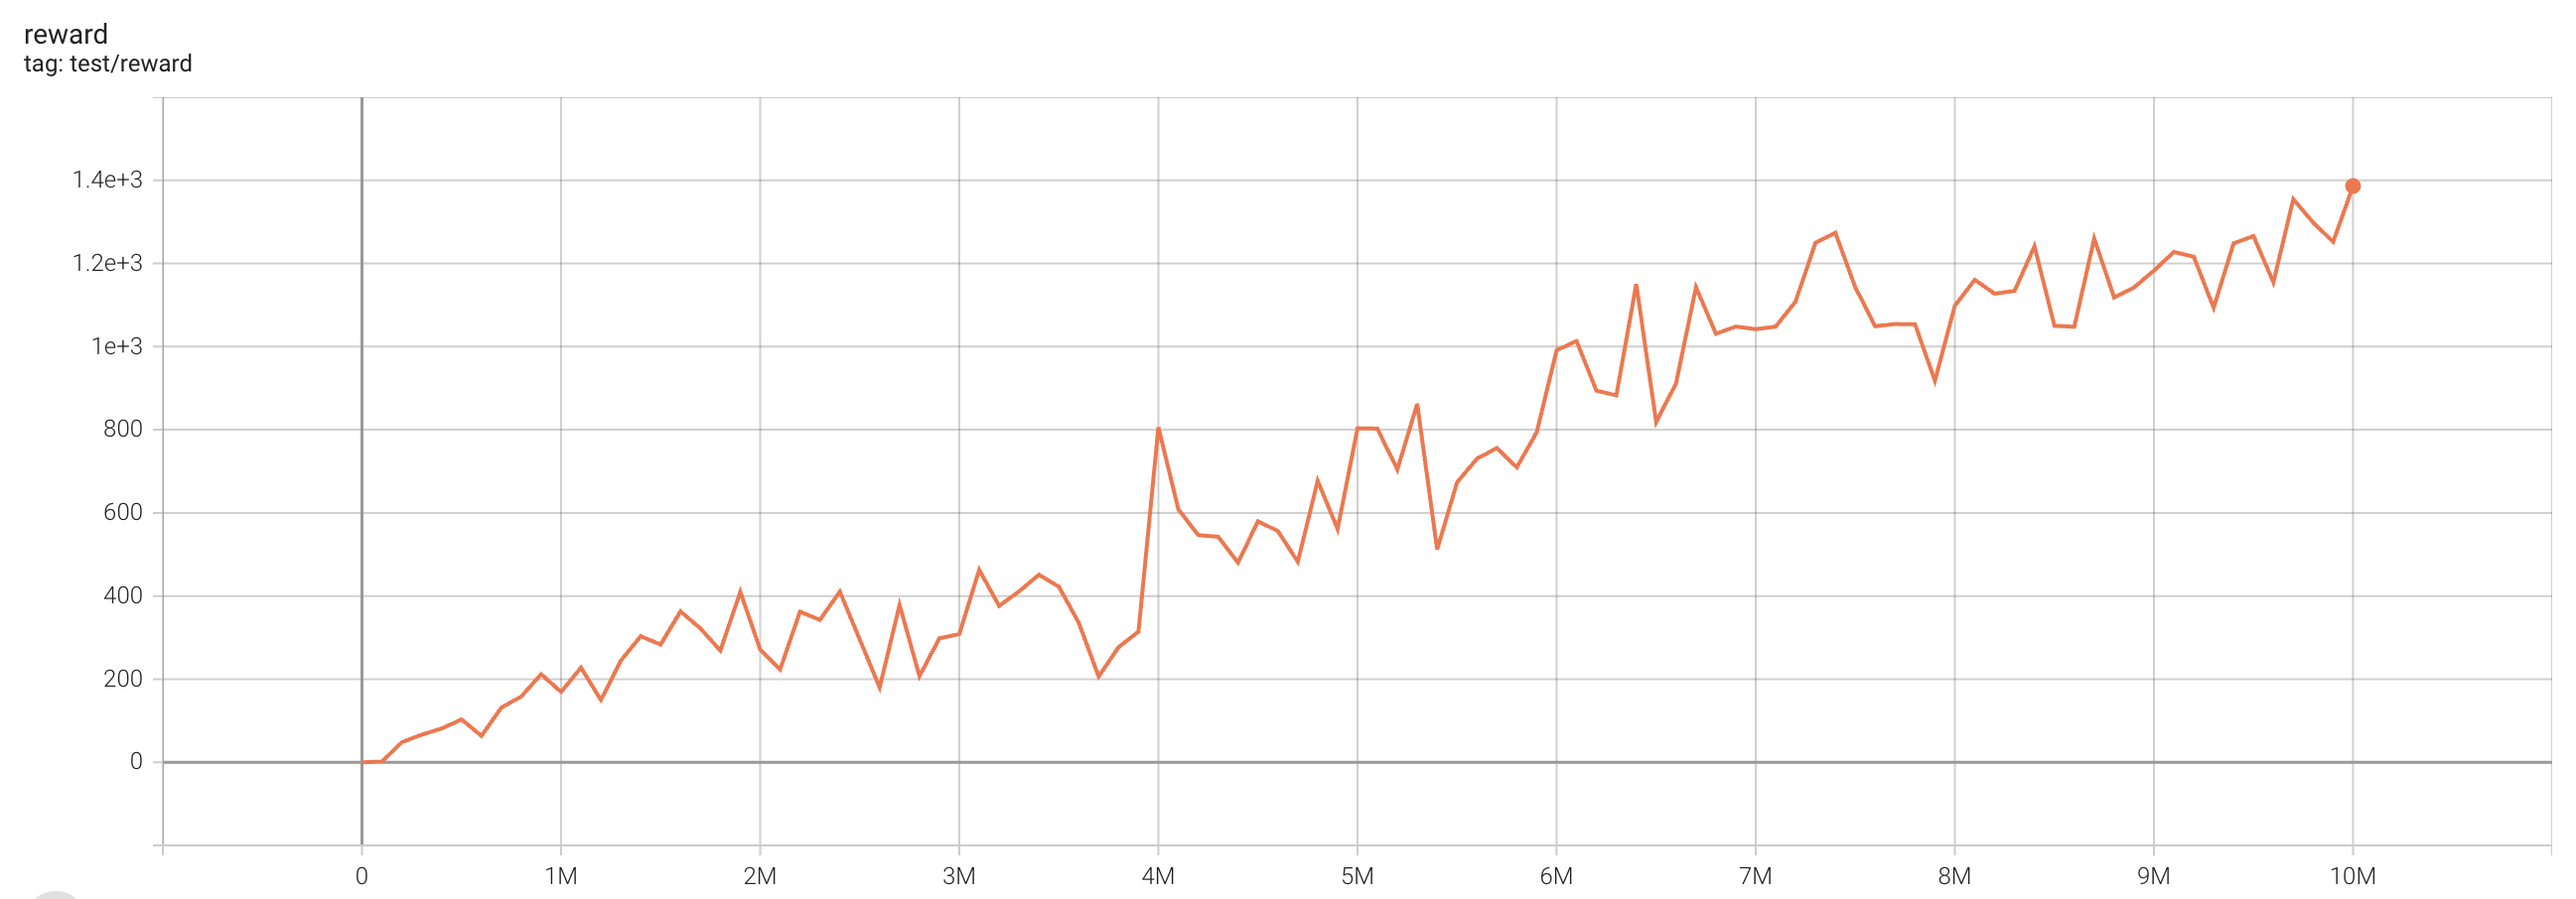
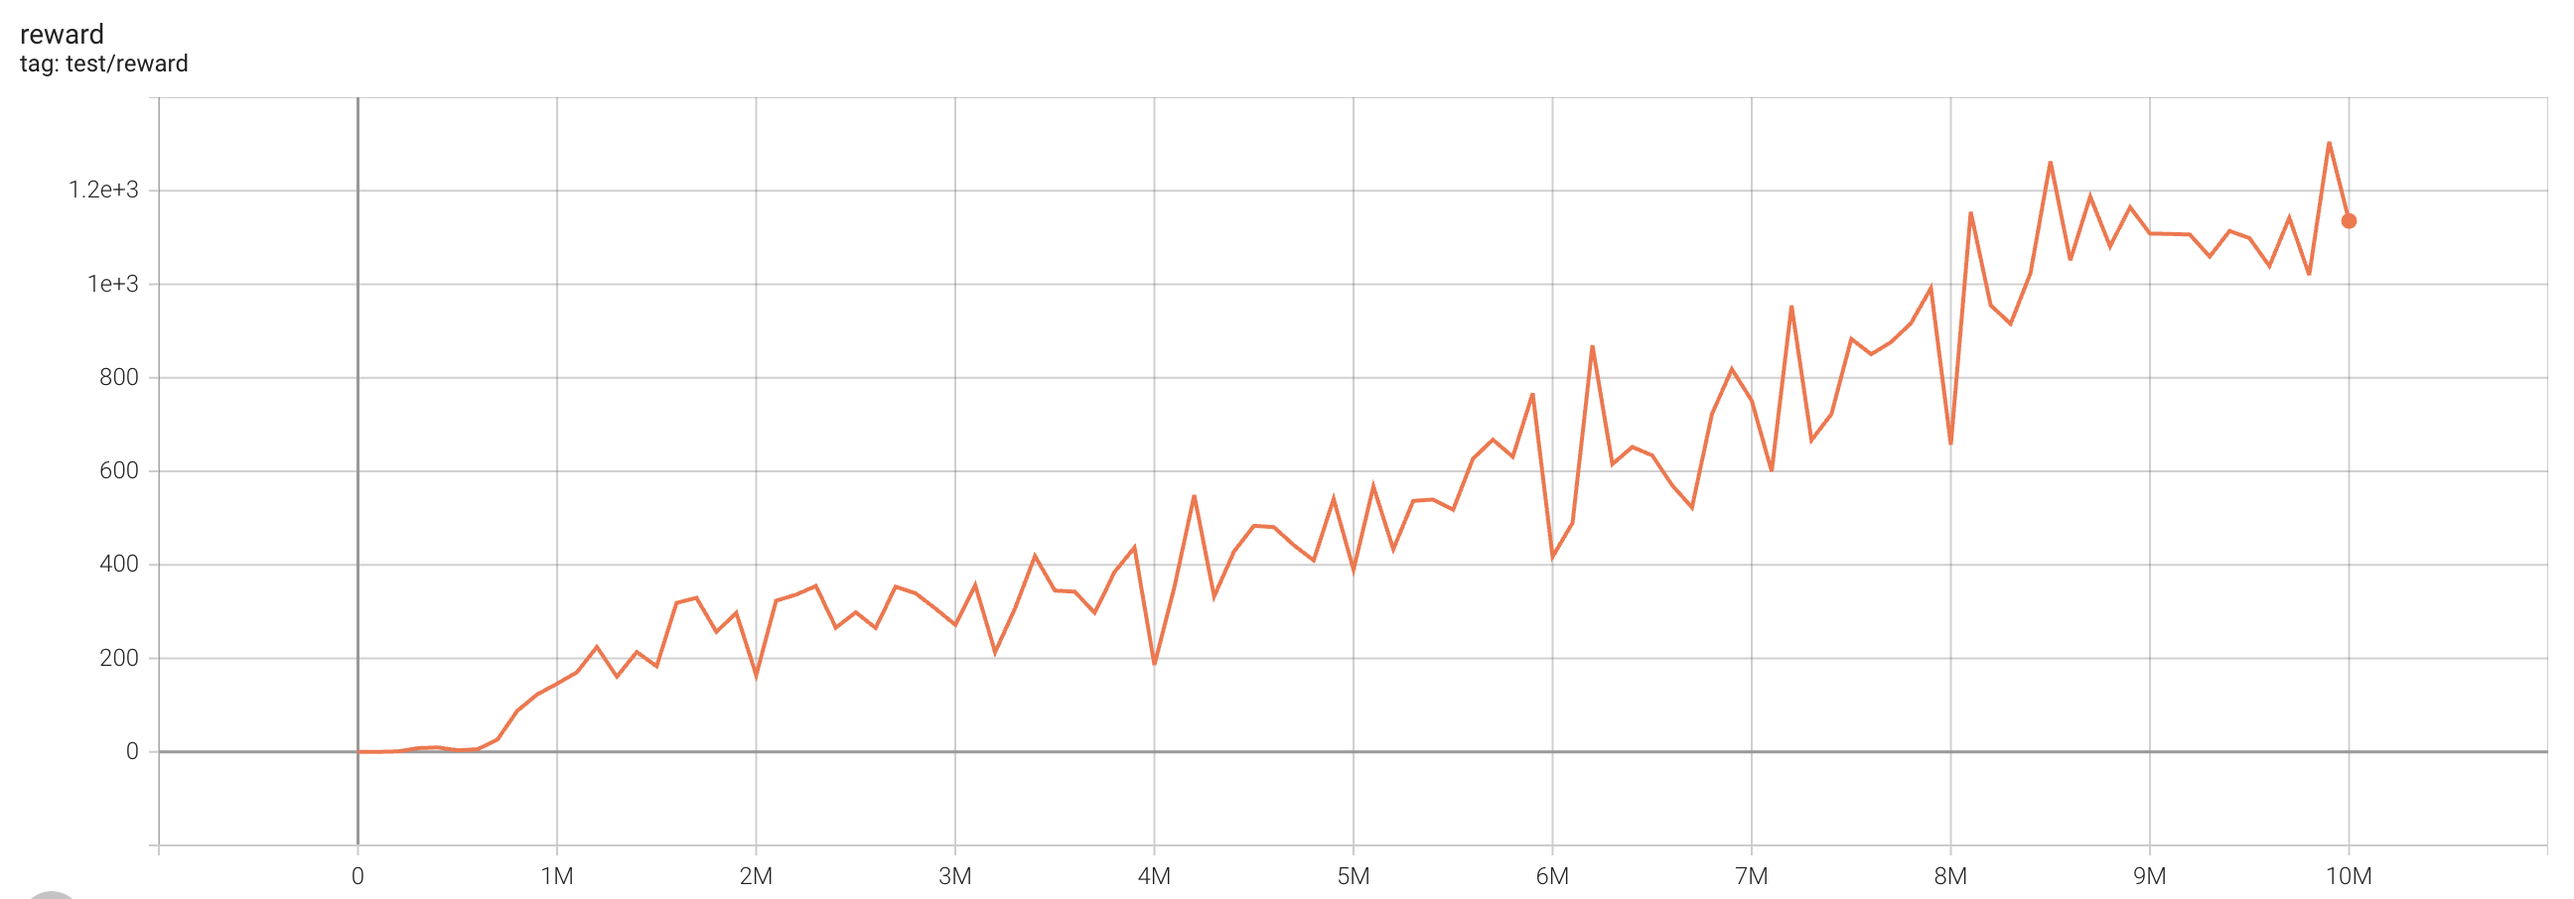
update atari ppo slots (#529)

diff --git a/examples/atari/atari_ppo.py b/examples/atari/atari_ppo.py
@@ -24,7 +24,7 @@ def get_args():
     parser.add_argument('--seed', type=int, default=4213)
     parser.add_argument('--scale-obs', type=int, default=0)
     parser.add_argument('--buffer-size', type=int, default=100000)
-    parser.add_argument('--lr', type=float, default=1e-4)
+    parser.add_argument('--lr', type=float, default=5e-5)
     parser.add_argument('--gamma', type=float, default=0.99)
     parser.add_argument('--epoch', type=int, default=100)
     parser.add_argument('--step-per-epoch', type=int, default=100000)

diff --git a/examples/atari/README.md b/examples/atari/README.md
@@ -102,10 +102,10 @@ One epoch here is equal to 100,000 env step, 100 epochs stand for 10M.
 
 | task                        | best reward | reward curve                          | parameters                                                   |
 | --------------------------- | ----------- | ------------------------------------- | ------------------------------------------------------------ |
-| PongNoFrameskip-v4          | 20        | ![](results/ppo/Pong_rew.png)         | `python3 atari_ppo.py --task "PongNoFrameskip-v4"` |
-| BreakoutNoFrameskip-v4      | 442.1        | ![](results/ppo/Breakout_rew.png)     | `python3 atari_ppo.py --task "BreakoutNoFrameskip-v4"` |
-| EnduroNoFrameskip-v4        | 1386.4       | ![](results/ppo/Enduro_rew.png)       | `python3 atari_ppo.py --task "EnduroNoFrameskip-v4"`  |
-| QbertNoFrameskip-v4         | 19585      | ![](results/ppo/Qbert_rew.png)        | `python3 atari_ppo.py --task "QbertNoFrameskip-v4"`  |
-| MsPacmanNoFrameskip-v4      | 2319       | ![](results/ppo/MsPacman_rew.png)     | `python3 atari_ppo.py --task "MsPacmanNoFrameskip-v4"`  |
-| SeaquestNoFrameskip-v4      | 1764       | ![](results/ppo/Seaquest_rew.png)     | `python3 atari_ppo.py --task "SeaquestNoFrameskip-v4"`  |
-| SpaceInvadersNoFrameskip-v4 | 1184       | ![](results/ppo/SpaceInvaders_rew.png) | `python3 atari_ppo.py --task "SpaceInvadersNoFrameskip-v4"`  |
+| PongNoFrameskip-v4          | 20.1        | ![](results/ppo/Pong_rew.png)         | `python3 atari_ppo.py --task "PongNoFrameskip-v4"` |
+| BreakoutNoFrameskip-v4      | 438.5        | ![](results/ppo/Breakout_rew.png)     | `python3 atari_ppo.py --task "BreakoutNoFrameskip-v4"` |
+| EnduroNoFrameskip-v4        | 1304.8       | ![](results/ppo/Enduro_rew.png)       | `python3 atari_ppo.py --task "EnduroNoFrameskip-v4"`  |
+| QbertNoFrameskip-v4         | 13640      | ![](results/ppo/Qbert_rew.png)        | `python3 atari_ppo.py --task "QbertNoFrameskip-v4"`  |
+| MsPacmanNoFrameskip-v4      | 1930       | ![](results/ppo/MsPacman_rew.png)     | `python3 atari_ppo.py --task "MsPacmanNoFrameskip-v4"`  |
+| SeaquestNoFrameskip-v4      | 904      | ![](results/ppo/Seaquest_rew.png)     | `python3 atari_ppo.py --task "SeaquestNoFrameskip-v4" --lr 2.5e-5`  |
+| SpaceInvadersNoFrameskip-v4 | 843       | ![](results/ppo/SpaceInvaders_rew.png) | `python3 atari_ppo.py --task "SpaceInvadersNoFrameskip-v4"`  |
